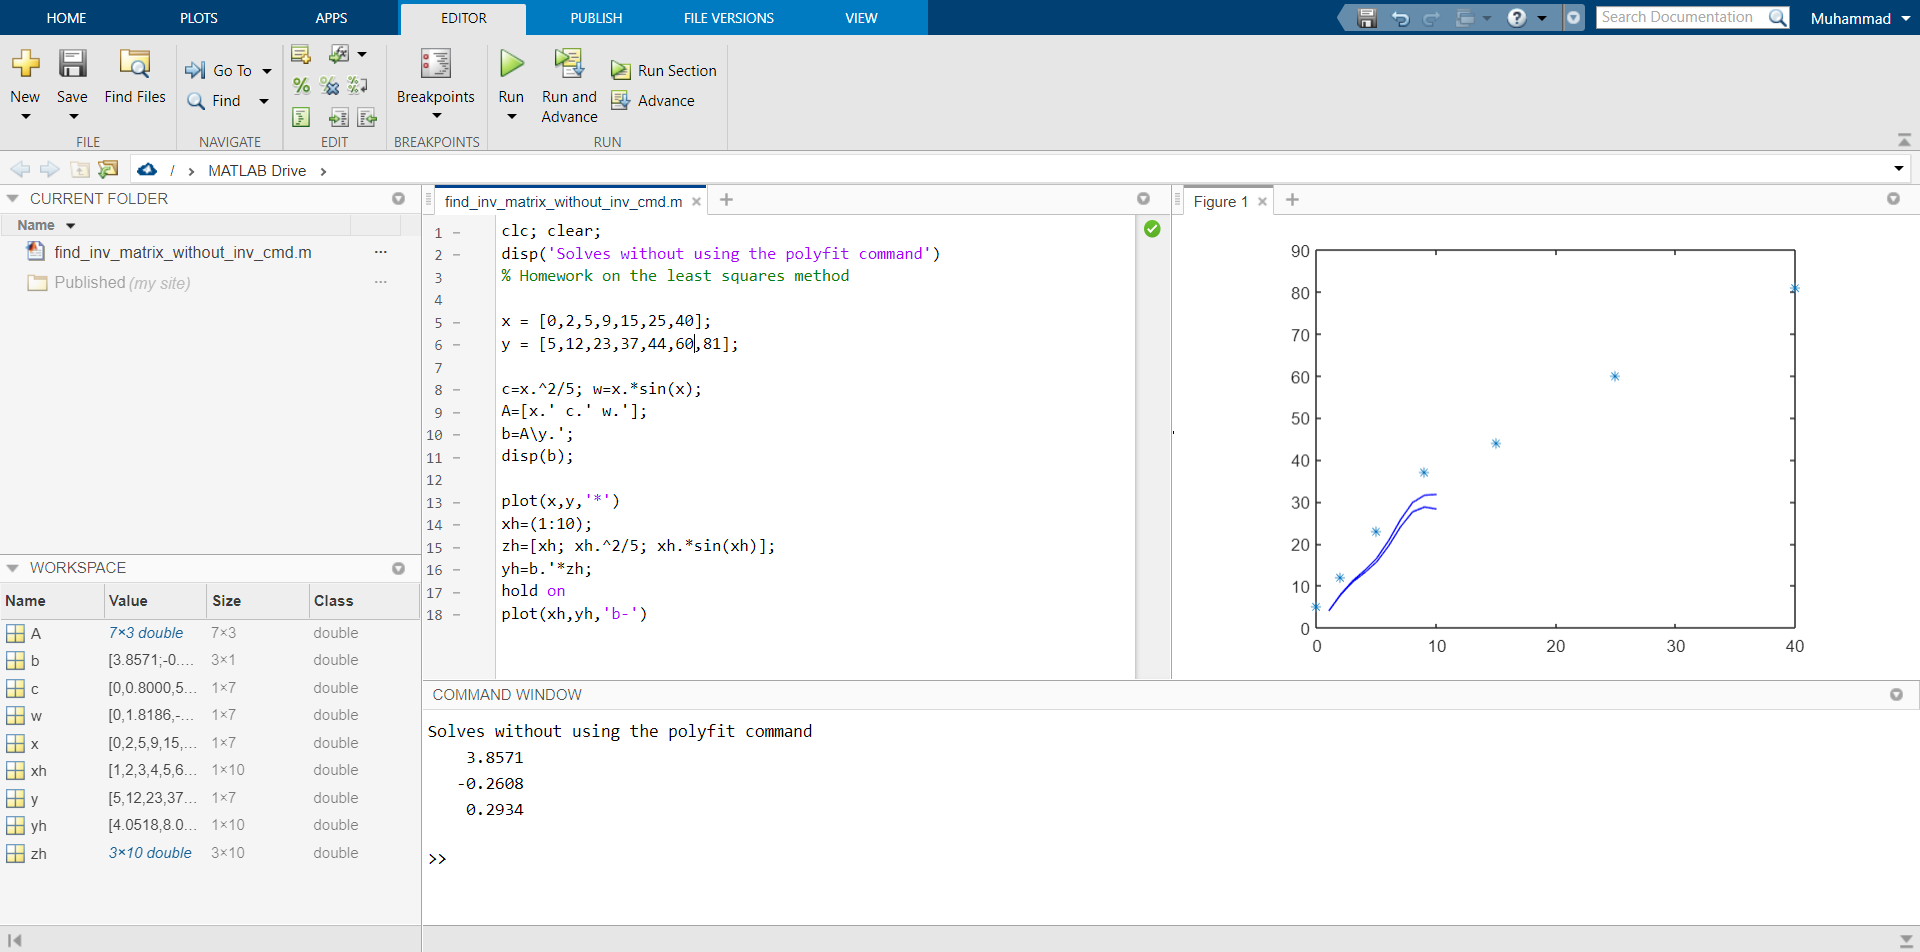
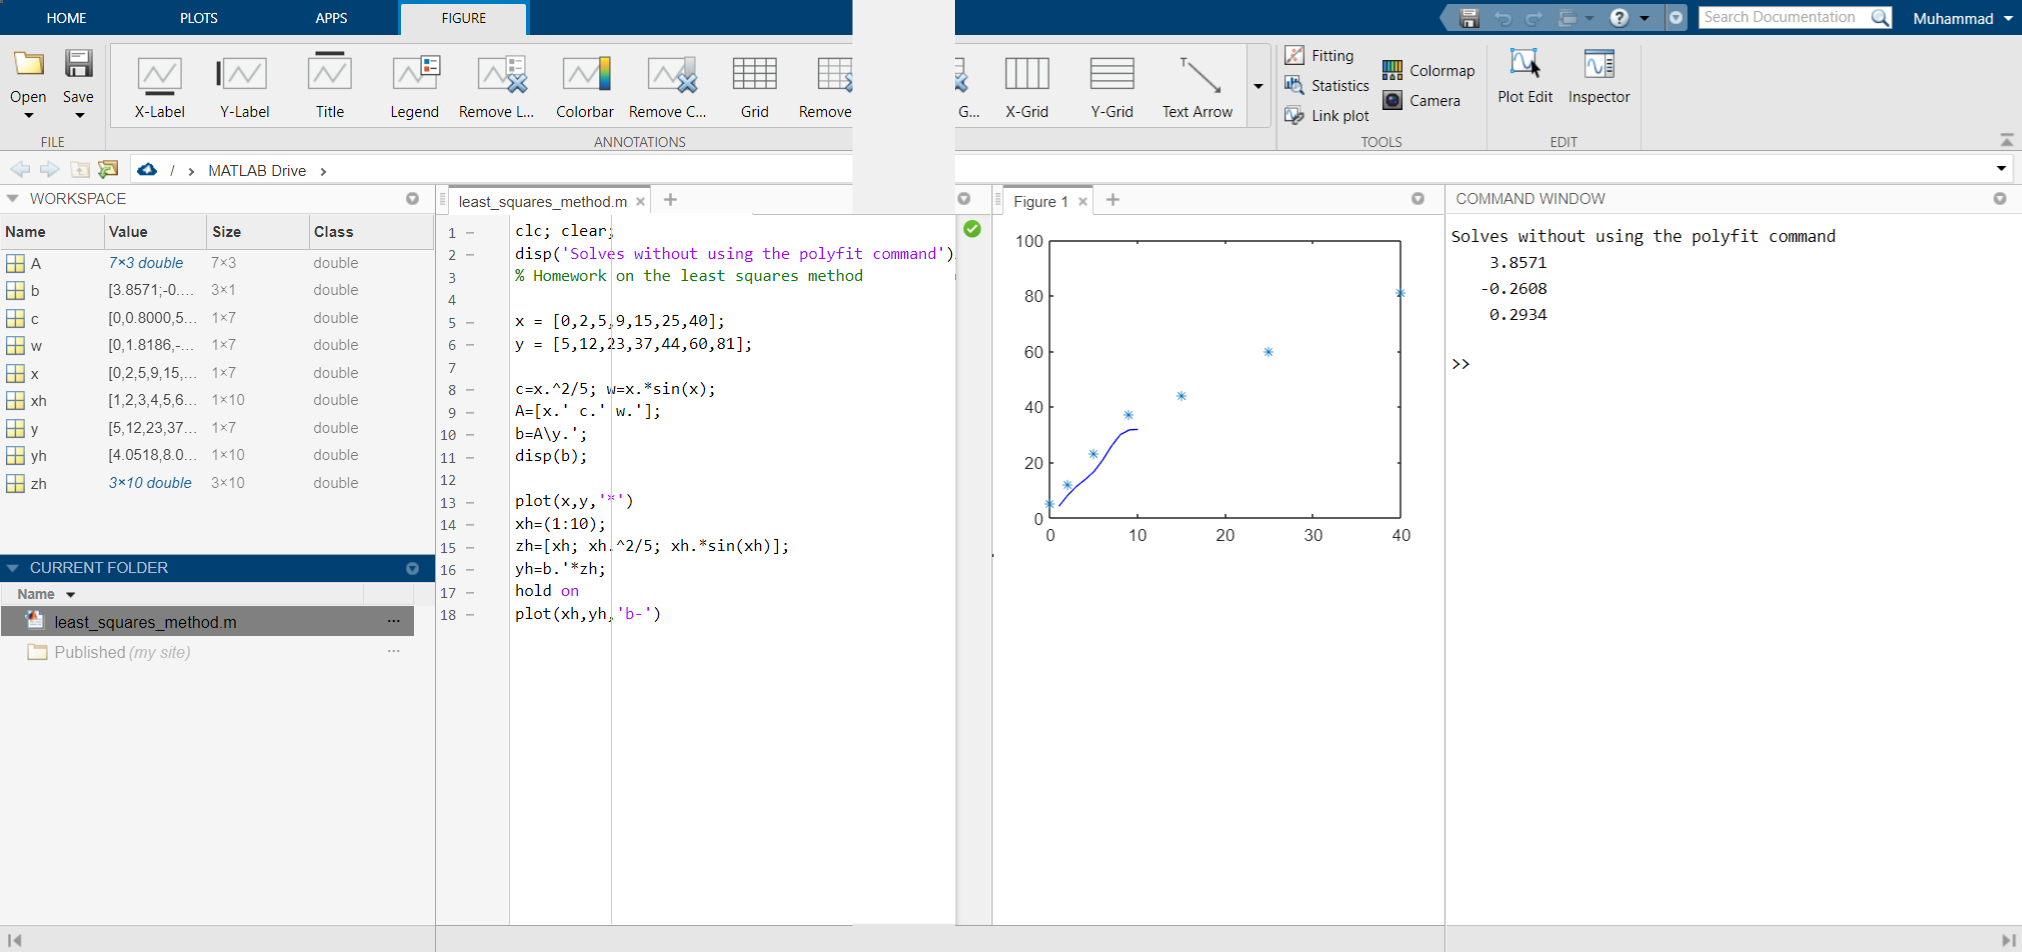
Homework on the least squares method

diff --git a/Homework on the least squares method/README.md b/Homework on the least squares method/README.md
@@ -1,2 +1,8 @@
-# MATLAB
-This is my public repo of all my MATLAB codes and other random codes written in MATLAB
+# Homework on the least squares method
+
+#### Assignment 4:
+Write the MATLAB codes in a general way that solves the homework question (without using the polyfit command) on the 16th page of the slide I have uploaded.
+
+### Solution
+
+<img src="output.png" width="800">
